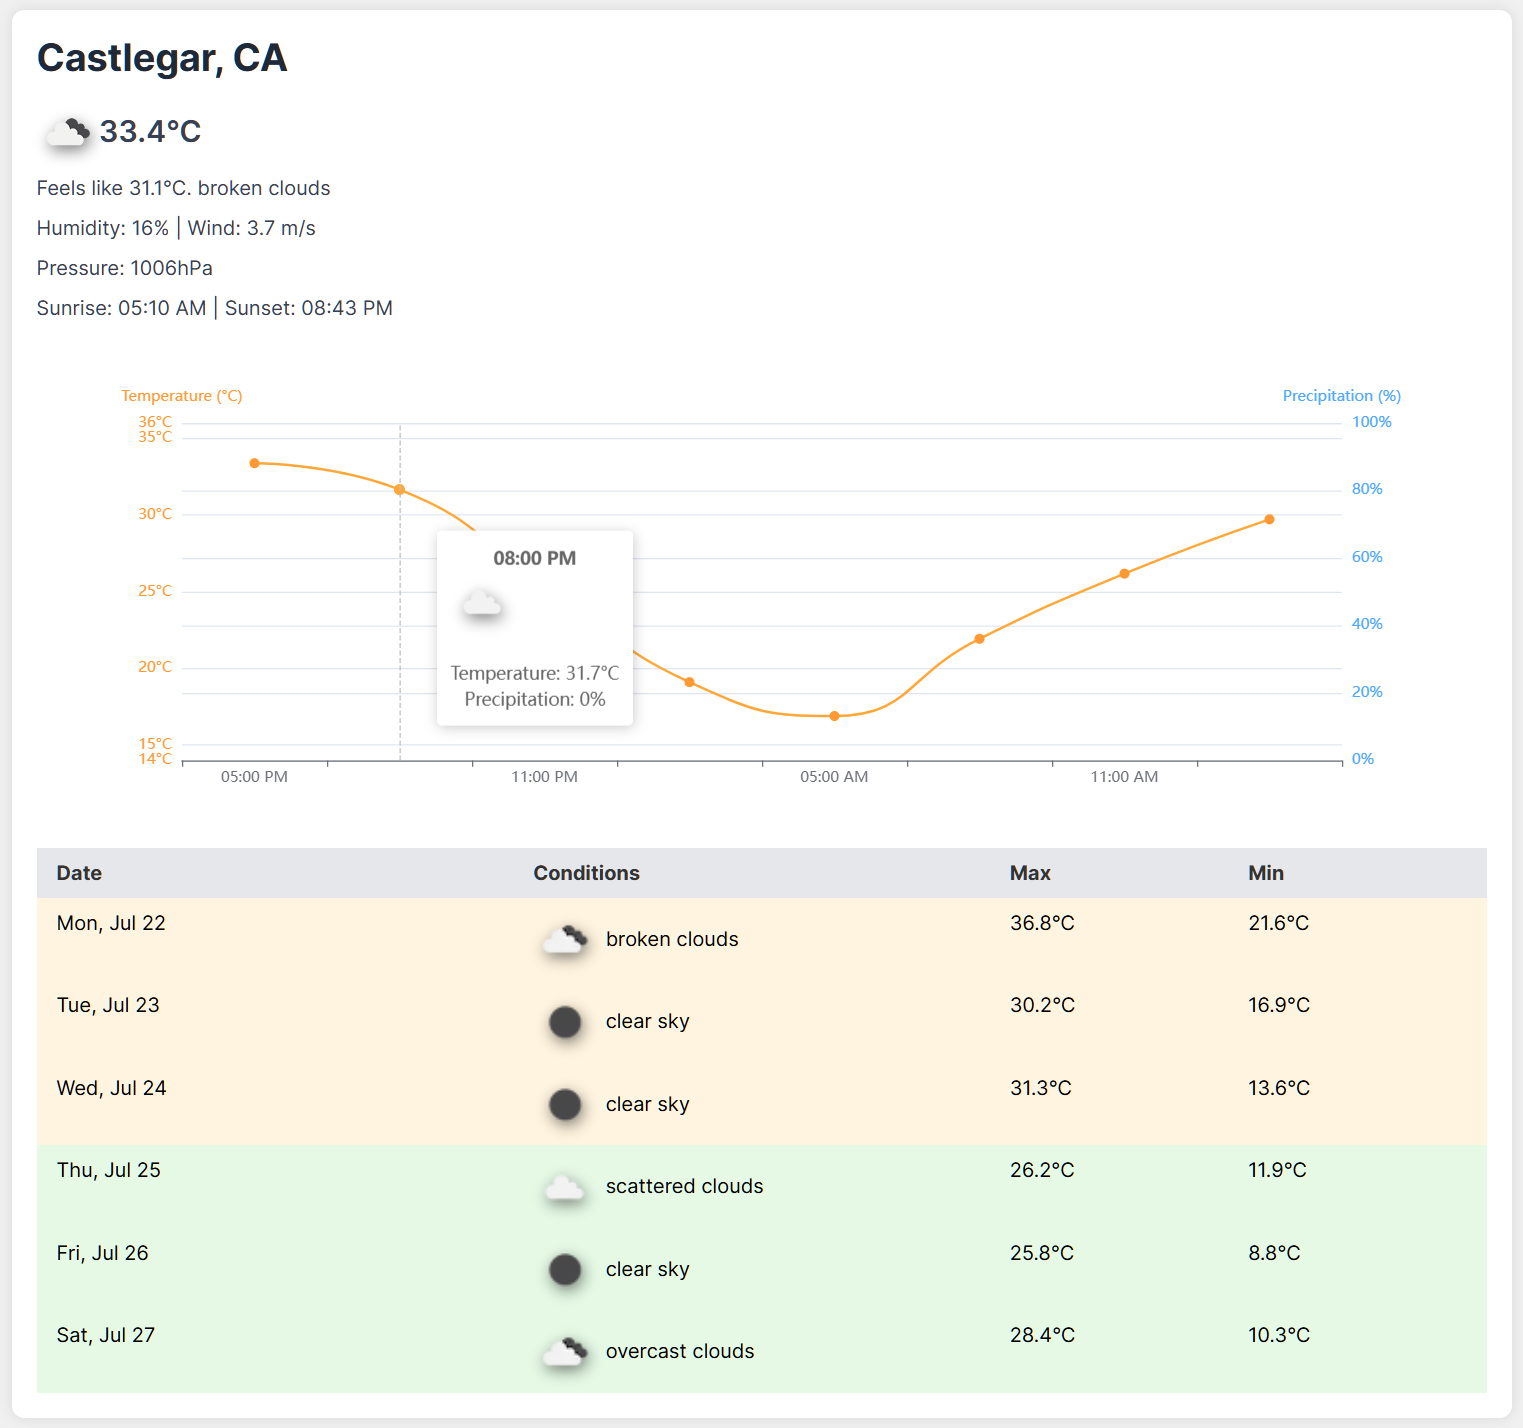
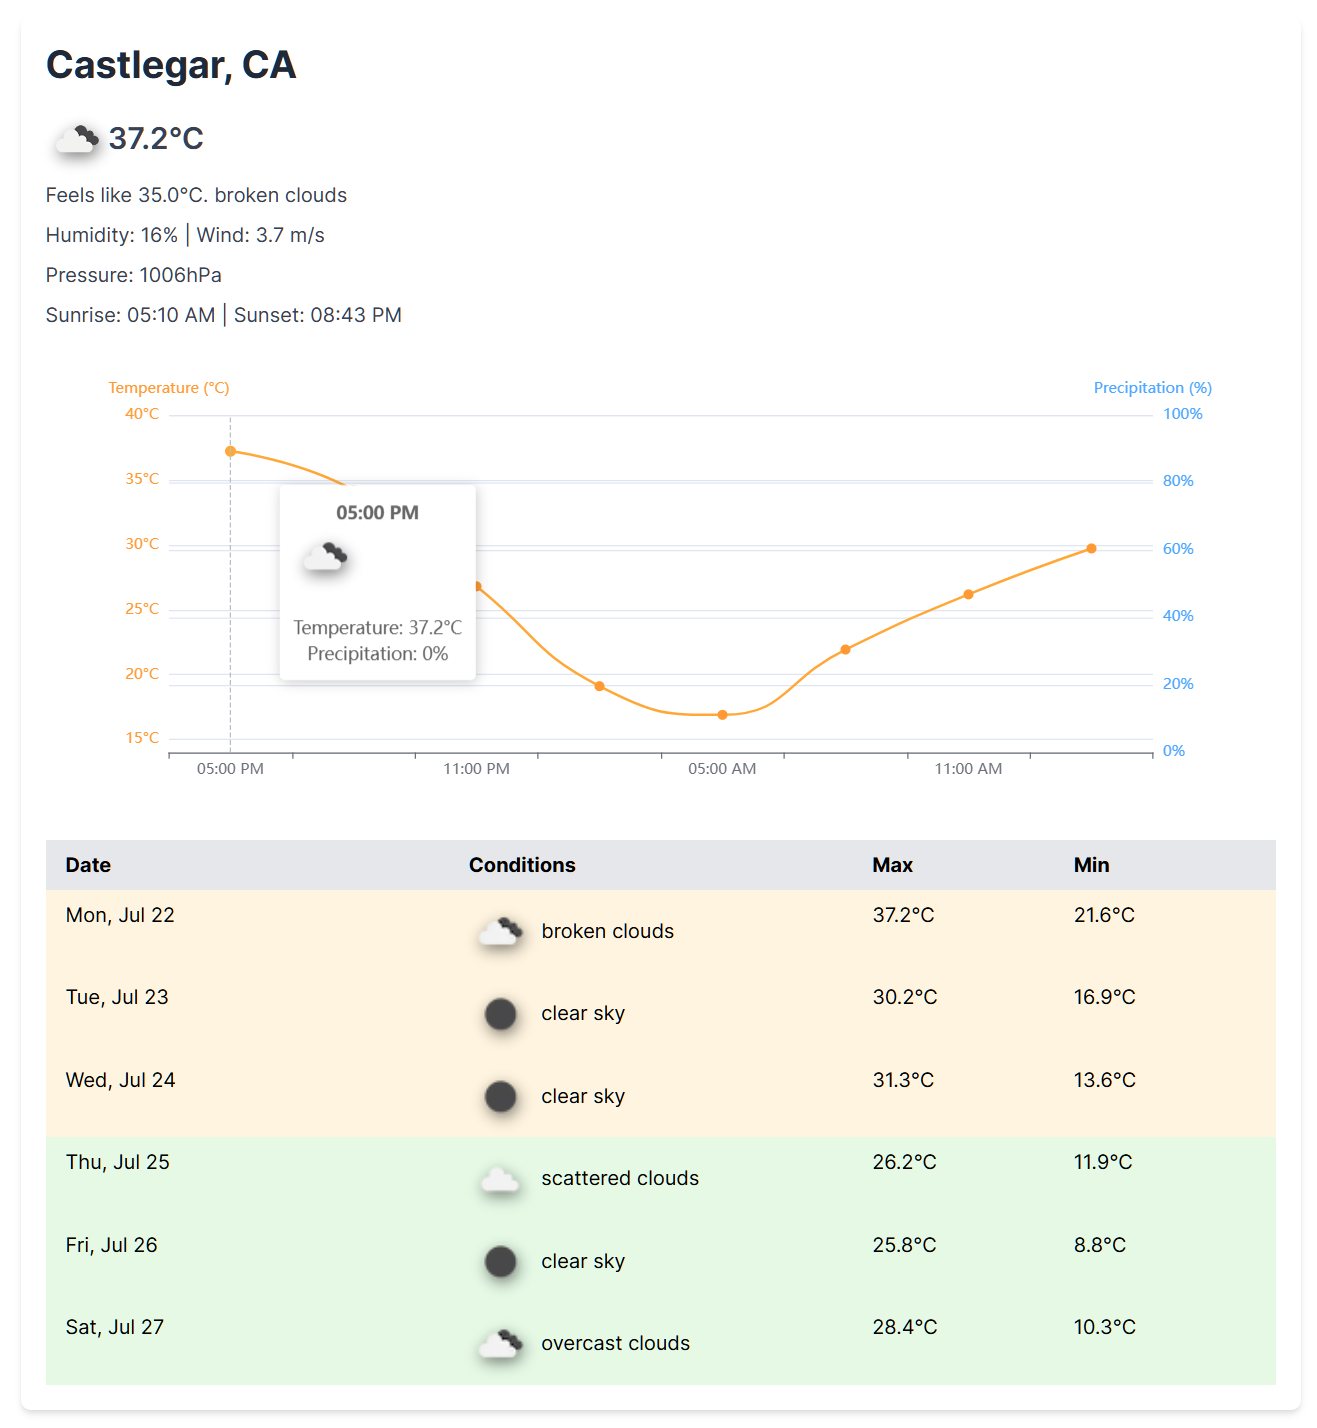
simplify styling

diff --git a/styles/globals.css b/styles/globals.css
@@ -22,45 +22,6 @@
   }
 }
 
-body {
-  font-family: Arial, sans-serif;
-  margin: 0;
-  padding: 20px;
-  background-color: #f0f0f0;
-  color: #333;
-}
-
-.container {
-  max-width: 1200px;
-  margin: 0 auto;
-  background-color: white;
-  padding: 20px;
-  border-radius: 10px;
-  box-shadow: 0 0 10px rgba(0, 0, 0, 0.1);
-}
-
-.current-weather,
-.hourly-forecast,
-.daily-forecast {
-  margin-bottom: 20px;
-}
-
-.hourly-chart {
-  height: 300px;
-}
-
-table {
-  width: 100%;
-  border-collapse: collapse;
-}
-
-th,
-td {
-  padding: 10px;
-  text-align: left;
-  border-bottom: 1px solid #ddd;
-}
-
 .weather-icon {
   vertical-align: middle;
   width: 50px;

diff --git a/app/page.tsx b/app/page.tsx
@@ -28,7 +28,7 @@ export default function Home() {
   if (!weatherData) return <div>Loading...</div>;
 
   return (
-    <main className="container">
+    <main className="max-w-5xl mx-auto bg-white p-5 m-5 rounded-lg shadow-md">
       <CurrentWeather data={weatherData.current as CurrentWeatherType} />
       <HourlyForecast data={weatherData.hourly as HourlyForecastType[]} />
       <DailyForecast data={weatherData.daily as DailyForecastType[]} />

diff --git a/components/CurrentWeather.tsx b/components/CurrentWeather.tsx
@@ -13,7 +13,7 @@ function CurrentWeather({ data }: { data: CurrentWeatherType }) {
   });
 
   return (
-    <div className="current-weather">
+    <div>
       <h1 className="text-3xl font-bold text-gray-800 mb-4">{`${data.city}, ${data.country}`}</h1>
       <h2 className="text-2xl font-semibold text-gray-700 mb-2 flex items-center">
         <img
